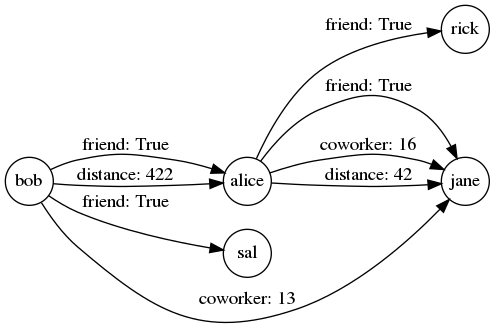
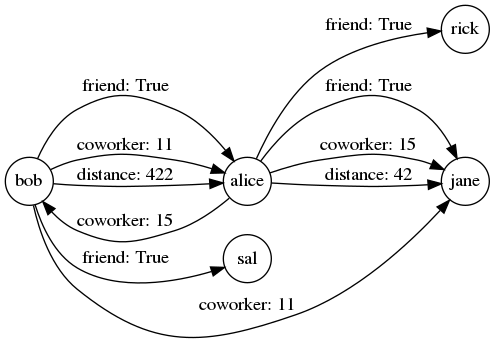
more hyperedges.

diff --git a/graphony/tests/test_README.py b/graphony/tests/test_README.py
@@ -24,7 +24,7 @@ def _phm_setup_doctest_teardown(doctest_namespace, managenamespace):
     for k, v in additions.items():
         doctest_namespace[k] = v
     yield
-    # teardown code line 311.
+    # teardown code line 313.
     postgresql.teardown(pgdata)
 
     managenamespace(operation="clear")
@@ -89,7 +89,7 @@ def session_00005_line_158():
 def session_00006_line_171():
     r"""
     >>> G.add_relation('coworker', incidence=True)
-    >>> G.coworker += [('bob', 'jane'), ('alice', 'jane')]
+    >>> G.coworker += [('bob', ('jane', 'alice')), ('alice', ('bob', 'jane'))]
 
     >>> G.add_relation('distance', int)
     >>> G.distance += [('bob', 'alice', 422), ('alice', 'jane', 42)]
@@ -105,8 +105,8 @@ def session_00007_line_189():
      friend(bob, sal),
      friend(alice, jane),
      friend(alice, rick),
-     coworker((bob), (jane), (True)),
-     coworker((alice), (jane), (True)),
+     coworker((bob), (alice, jane), (True, True)),
+     coworker((alice), (bob, jane), (True, True)),
      distance(bob, alice, 422),
      distance(alice, jane, 42)]
     """
@@ -128,7 +128,7 @@ def session_00009_line_213():
     >>> p(G(source='bob'))
     [friend(bob, alice),
      friend(bob, sal),
-     coworker((bob), (jane), (True)),
+     coworker((bob), (alice, jane), (True, True)),
      distance(bob, alice, 422)]
     """
 
@@ -136,11 +136,13 @@ def session_00009_line_213():
 def session_00010_line_223():
     r"""
     >>> p(G(relation='coworker'))
-    [coworker((bob), (jane), (True)), coworker((alice), (jane), (True))]
+    [coworker((bob), (alice, jane), (True, True)),
+     coworker((alice), (bob, jane), (True, True))]
+
     """
 
 
-def session_00011_line_230():
+def session_00011_line_232():
     r"""
     >>> p(G(destination='jane'))
     [friend(alice, jane),
@@ -152,17 +154,17 @@ def session_00011_line_230():
     """
 
 
-def session_00012_line_244():
+def session_00012_line_246():
     r"""
     >>> G.friend
     <Adjacency friend BOOL:4>
 
     >>> G.coworker
-    <Incidence coworker BOOL:2>
+    <Incidence coworker BOOL:4>
     """
 
 
-def session_00013_line_276():
+def session_00013_line_278():
     r"""
     >>> G.add_relation('karate')
     >>> G.karate += G.sql(
@@ -174,17 +176,17 @@ def session_00013_line_276():
     """
 
 
-def session_00014_line_290():
+def session_00014_line_292():
     r"""
     >>> len(G.karate)
     78
     """
 
 
-def session_00015_line_294():
+def session_00015_line_296():
     r"""
     >>> G
-    <Graph [friend, coworker, distance, karate]: 86>
+    <Graph [friend, coworker, distance, karate]: 88>
 
     >>> from graphony.lib import pagerank
     >>> G.add_relation('PR')

diff --git a/graphony/relation.py b/graphony/relation.py
@@ -39,20 +39,29 @@ class Relation:
 
     def add(self, source, destination, weight=True, eid=None, A_weight=True):
         """Add an edge to this relation."""
-        if isinstance(source, str):
-            source = Node(self.graph, source)
-
-        if isinstance(destination, str):
-            destination = Node(self.graph, destination)
-
-        if self.incidence:
-            if eid is None:
-                eid = self.graph._new_edge()
-
-            self.A[source.n_id, eid] = A_weight
-            self.B[eid, destination.n_id] = weight
-        else:
+        if not self.incidence:
+            source = self.graph.get_node(source)
+            destination = self.graph.get_node(destination)
             self.A[source.n_id, destination.n_id] = weight
+            return
+
+        if eid is None:
+            eid = self.graph._new_edge()
+
+        if isinstance(source, tuple):
+            sources = [self.graph.get_node(s) for s in source]
+        else:
+            sources = [self.graph.get_node(source)]
+
+        if isinstance(destination, tuple):
+            destinations = [self.graph.get_node(d) for d in destination]
+        else:
+            destinations = [self.graph.get_node(destination)]
+
+        for s in sources:
+            self.A[s.n_id, eid] = A_weight
+        for d in destinations:
+            self.B[eid, d.n_id] = weight
 
     def draw(self, **kwargs):
         adj = self()

diff --git a/graphony/graph.py b/graphony/graph.py
@@ -88,6 +88,11 @@ class Graph:
             c.execute(sql_code)
             return c.fetchall()
 
+    def get_node(self, name):
+        if isinstance(name, Node):
+            return name
+        return Node(self.graph, name)
+
     def add_relation(self, name, weight_type=None, incidence=False):
         """Add a new relation"""
         rid = self._upsert_relation(name, dumps(weight_type))

diff --git a/README.md b/README.md
@@ -169,7 +169,7 @@ To create edges of a certain type, 4 elements can be provided:
 
 ```python3
 >>> G.add_relation('coworker', incidence=True)
->>> G.coworker += [('bob', 'jane'), ('alice', 'jane')]
+>>> G.coworker += [('bob', ('jane', 'alice')), ('alice', ('bob', 'jane'))]
 
 >>> G.add_relation('distance', int)
 >>> G.distance += [('bob', 'alice', 422), ('alice', 'jane', 42)]
@@ -191,8 +191,8 @@ acts as a wildcard to matches all values.
  friend(bob, sal),
  friend(alice, jane),
  friend(alice, rick),
- coworker((bob), (jane), (True)),
- coworker((alice), (jane), (True)),
+ coworker((bob), (alice, jane), (True, True)),
+ coworker((alice), (bob, jane), (True, True)),
  distance(bob, alice, 422),
  distance(alice, jane, 42)]
 ```
@@ -213,7 +213,7 @@ Only print relations where `bob` is the src:
 >>> p(G(source='bob'))
 [friend(bob, alice),
  friend(bob, sal),
- coworker((bob), (jane), (True)),
+ coworker((bob), (alice, jane), (True, True)),
  distance(bob, alice, 422)]
 ```
 
@@ -221,7 +221,9 @@ Only print relations where `coworker` is the relation:
 
 ```python3
 >>> p(G(relation='coworker'))
-[coworker((bob), (jane), (True)), coworker((alice), (jane), (True))]
+[coworker((bob), (alice, jane), (True, True)),
+ coworker((alice), (bob, jane), (True, True))]
+
 ```
 
 Only print relations where `jane` is the dest:
@@ -245,7 +247,7 @@ Relations are accessible as attributes of the graph:
 <Adjacency friend BOOL:4>
 
 >>> G.coworker
-<Incidence coworker BOOL:2>
+<Incidence coworker BOOL:4>
 ```
 
 Relations can be iterated directly:
@@ -292,7 +294,7 @@ query above:
 ```
 ```python3
 >>> G
-<Graph [friend, coworker, distance, karate]: 86>
+<Graph [friend, coworker, distance, karate]: 88>
 
 >>> from graphony.lib import pagerank
 >>> G.add_relation('PR')
